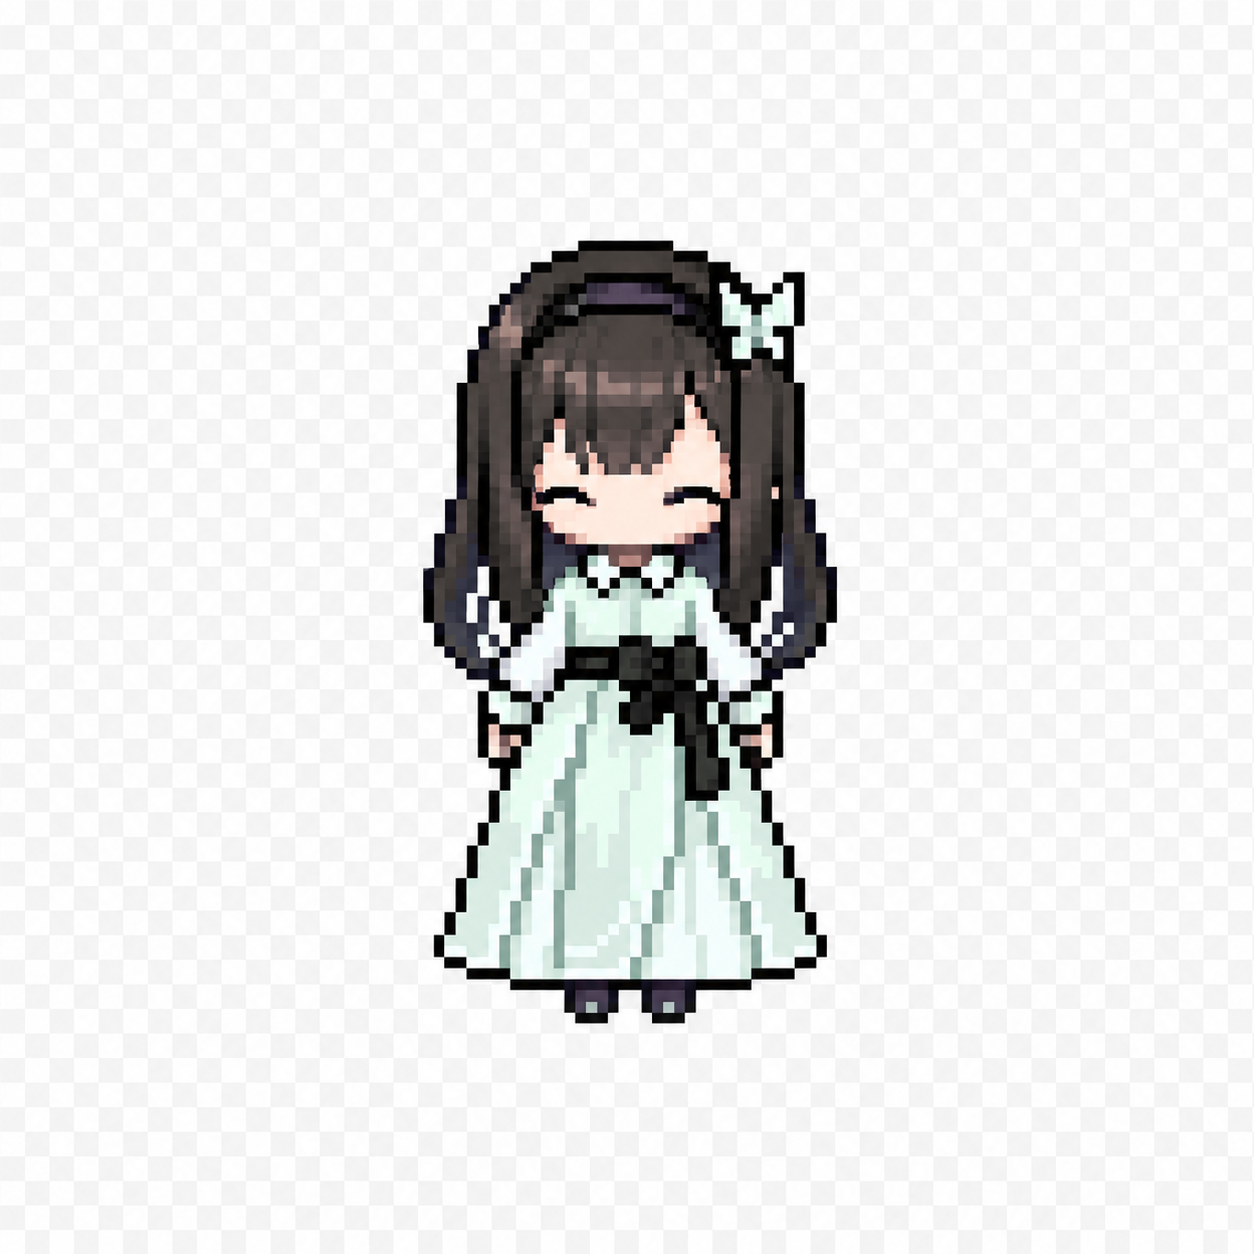
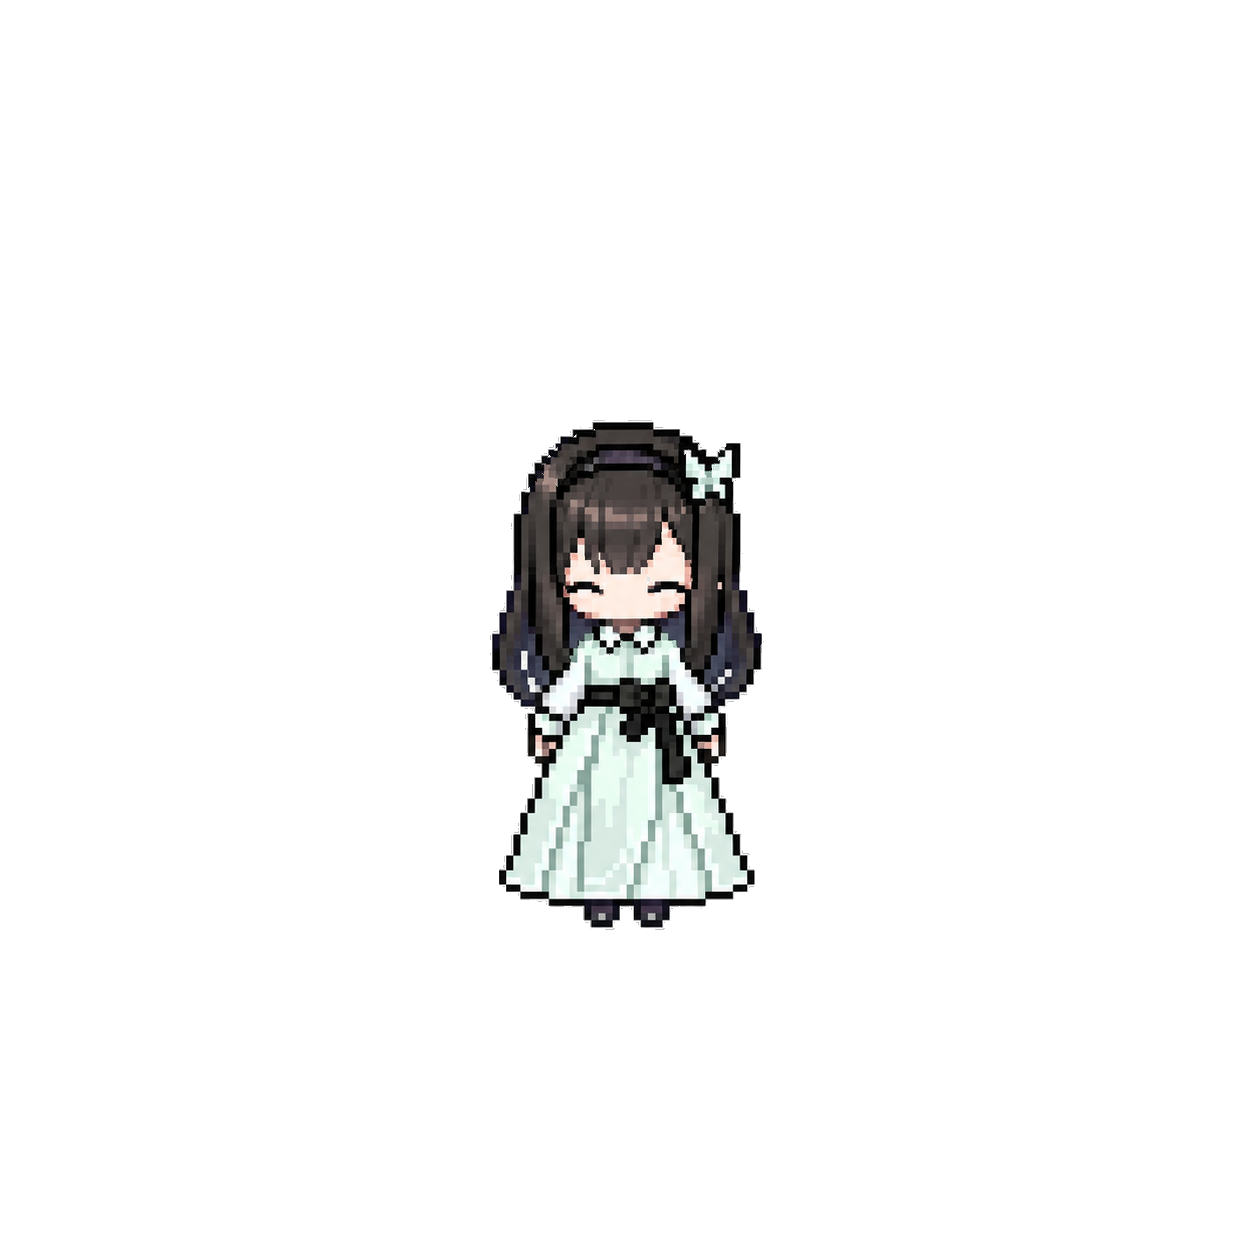
fix(assets): refit casual 笑 frame to the shared anchor
The replacement casual 笑 source already had a transparent background but its
character was drawn ~10% smaller than the other 8 casual frames, which would
make her visibly shrink when smiling. Scale it to the frames' shared anchor
(opaque height 570, center-x 627, feet y 931) and re-center on the 1254x1254
canvas so the renderer's union-bbox crop keeps every frame aligned. Raw source
kept (unbundled) in casual-src; recipe in scripts/process-casual-xiao.py.

Changed region(s): [[0.311, 0.1866, 0.6842, 0.8397]]

diff --git a/scripts/process-casual-xiao.py b/scripts/process-casual-xiao.py
@@ -1,0 +1,80 @@
+#!/usr/bin/env python3
+"""Fit the new casual 笑 (happy) frame to the other 8 casual frames.
+
+The new source (assets/character/casual/Arknights Pixel Art.png) already has a
+transparent background, but its character is drawn ~10% smaller than the other
+casual frames. Shipping it as-is would make her visibly shrink when she smiles.
+
+This scales the character to the shared anchor of the existing frames
+(feet bottom y, center x, opaque height) and repositions it on the full
+1254x1254 canvas, so the renderer's union-bbox crop keeps every frame aligned.
+A smooth resample matches the already-resampled look of the other frames.
+"""
+import glob
+import os
+from PIL import Image
+
+CASUAL = "/Users/kelvin/Desktop/prts/assets/character/casual"
+SRC = os.path.join(CASUAL, "Arknights Pixel Art.png")
+OUT = "/tmp/casual-xiao-fitted.png"
+EXPR = ["睁眼", "半眯眼", "快闭眼", "闭眼", "生气", "威胁", "哭唧唧", "睡觉"]
+
+
+def opaque_bbox(img):
+    px = img.load()
+    w, h = img.size
+    minx, miny, maxx, maxy = w, h, -1, -1
+    for y in range(h):
+        for x in range(w):
+            if px[x, y][3] > 20:
+                if x < minx: minx = x
+                if y < miny: miny = y
+                if x > maxx: maxx = x
+                if y > maxy: maxy = y
+    return minx, miny, maxx, maxy
+
+
+# Derive the shared anchor of the existing frames.
+heights, cxs, bottoms = [], [], []
+for name in EXPR:
+    p = os.path.join(CASUAL, f"{name}.png")
+    if not os.path.exists(p):
+        continue
+    minx, miny, maxx, maxy = opaque_bbox(Image.open(p).convert("RGBA"))
+    heights.append(maxy - miny + 1)
+    cxs.append((minx + maxx) / 2)
+    bottoms.append(maxy)
+    print(f"{name:6s} bbox h={maxy-miny+1} cx={(minx+maxx)/2:.0f} bottom={maxy}")
+
+
+def median(xs):
+    xs = sorted(xs)
+    n = len(xs)
+    return xs[n // 2] if n % 2 else (xs[n // 2 - 1] + xs[n // 2]) / 2
+
+
+tgt_h = median(heights)
+tgt_cx = median(cxs)
+tgt_bottom = median(bottoms)
+print(f"\nTARGET  height={tgt_h}  center_x={tgt_cx:.0f}  bottom={tgt_bottom}")
+
+# Crop the new character, scale to the target height, paste anchored.
+src = Image.open(SRC).convert("RGBA")
+W, H = src.size
+minx, miny, maxx, maxy = opaque_bbox(src)
+sw, sh = maxx - minx + 1, maxy - miny + 1
+print(f"new 笑 source bbox h={sh} cx={(minx+maxx)/2:.0f} bottom={maxy}")
+
+scale = tgt_h / sh
+new_w, new_h = round(sw * scale), round(sh * scale)
+char = src.crop((minx, miny, maxx + 1, maxy + 1)).resize((new_w, new_h), Image.LANCZOS)
+
+canvas = Image.new("RGBA", (W, H), (0, 0, 0, 0))
+left = round(tgt_cx - new_w / 2)
+top = round(tgt_bottom + 1 - new_h)
+canvas.alpha_composite(char, (left, top))
+print(f"scale={scale:.4f}  pasted at ({left},{top})  size {new_w}x{new_h}")
+print(f"result bbox = {opaque_bbox(canvas)}")
+
+canvas.save(OUT, "PNG")
+print(f"saved -> {OUT}")
